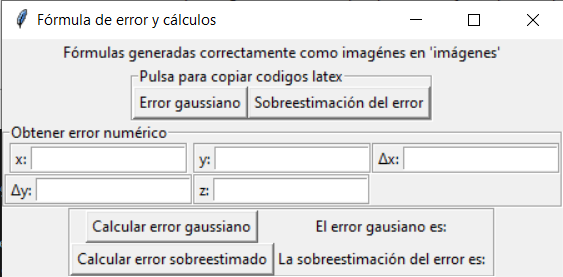
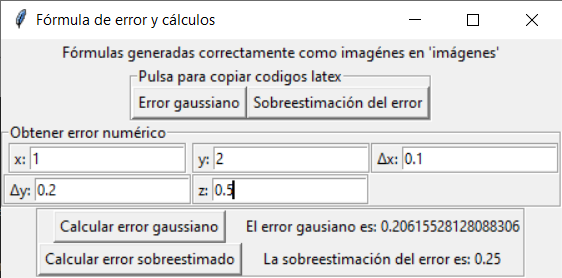
Actualizada segunda ventana y readme

diff --git a/README.md b/README.md
@@ -9,7 +9,7 @@ Para la fórmula $x^z + y$ las variables $x, y$ tienen error. Podemos introducir
 
 Lo que nos lleva a:
 
-![!image](https://github.com/villarjorge/error_propagator/blob/main/segunda%20ventana.png)
+![image](https://github.com/villarjorge/error_propagator/blob/main/segunda%20ventana.png)
 
 Y las fórmulas que podemos copiar son: $\sqrt{{\Delta}y^{2} + \frac{x^{2 z} z^{2} {\Delta}x^{2}}{x^{2}}}$ y $\left|{{\Delta}y}\right| + \left|{\frac{x^{z} z {\Delta}x}{x}}\right|$
 
